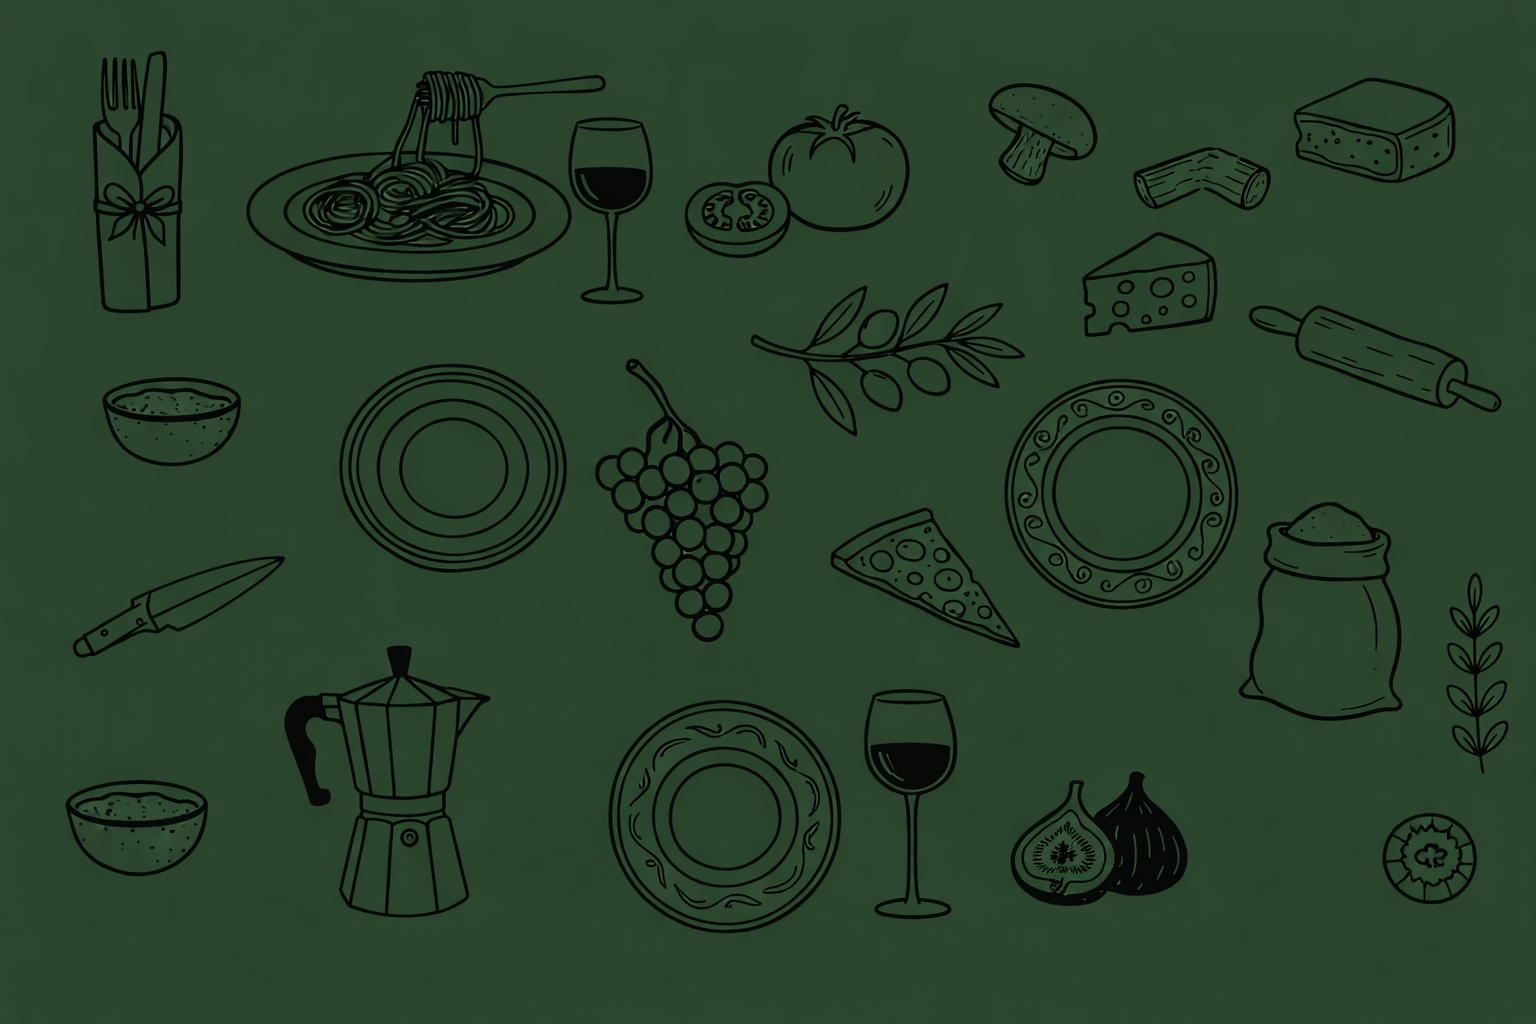
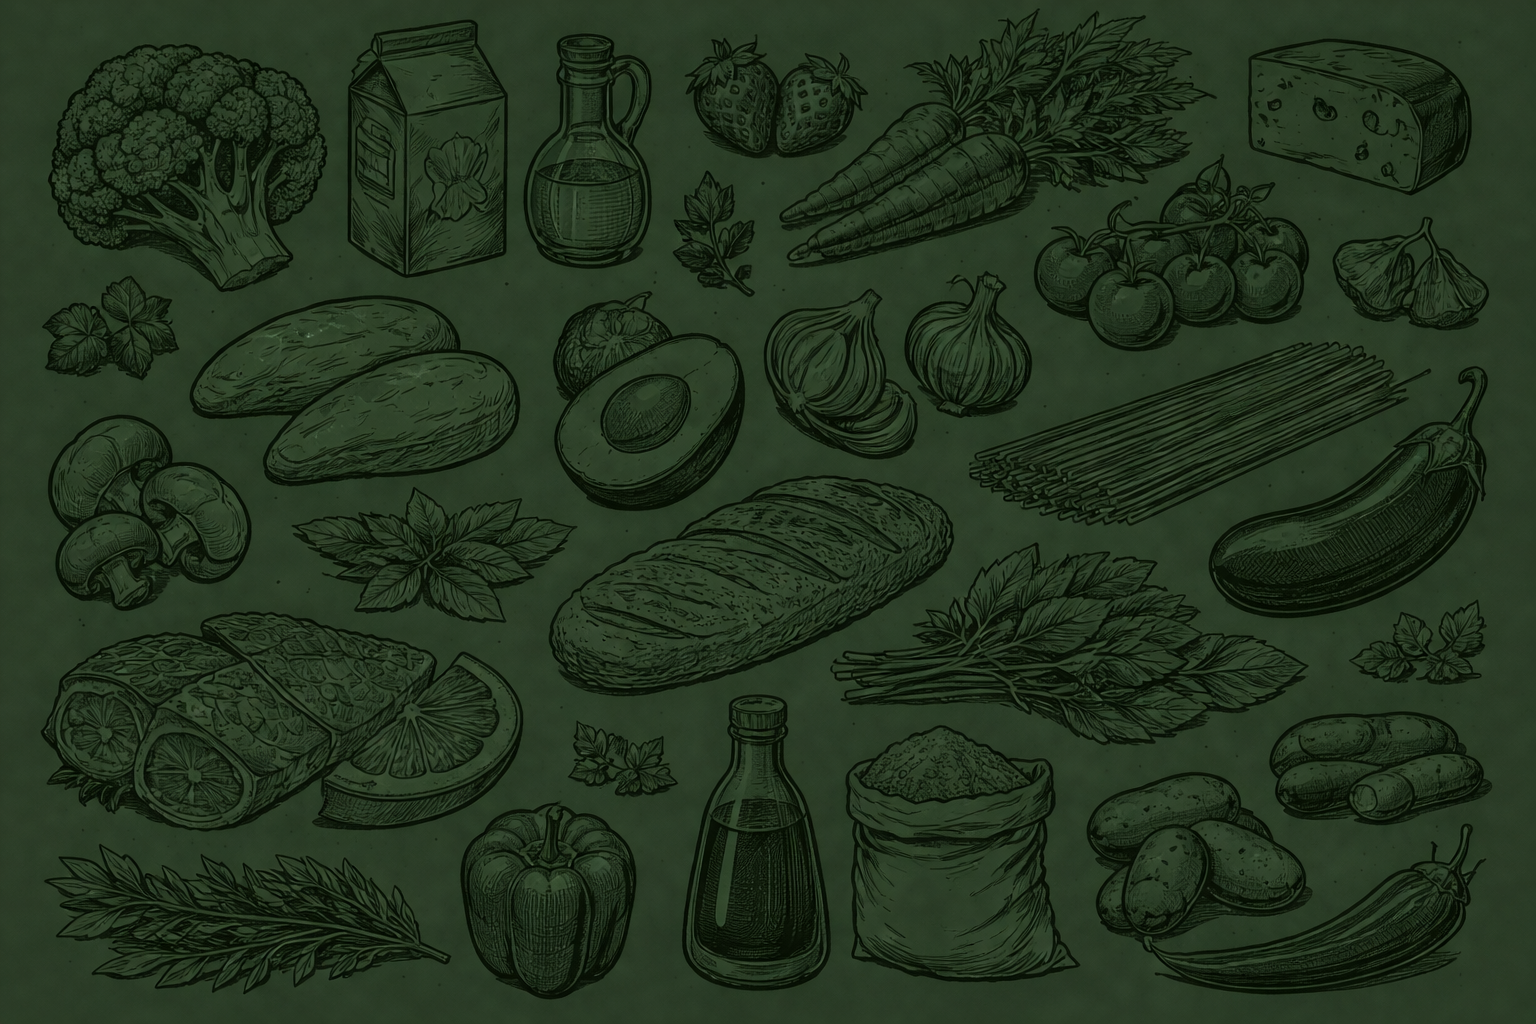
finished the homepage cards, identified some bugs

diff --git a/core/templates/core/homepage.html b/core/templates/core/homepage.html
@@ -16,19 +16,29 @@ Foodganizer Home
 
 <div class="container-home-head">
     <h2>Ready to get ahead of your meal planning?</h2>
-    <p>Start your journey below:</p>
+    <p>The Foodganizer lets you access an extendable database of highly customizable ingredients and recipes.</p>
+    <ul style="text-align: left;">
+      <li>Generate a grocery list from your favourite recipes</li>
+      <li>Keep a digital fridge and get meal suggestions from the ingredients you already have!</li>
+      <li>Calculate your TDEE and BMR and track your meals and nutrients.</li>
+    </ul>
+
 </div>
 
 
 <div class="cards">
 
-  <a href="{% url 'generate_grocery_list' %}" class="card">
+<img src="/static/images/title_line.svg" alt="" style="width: 400px; height: auto;">
+
+<!-- GROCERY-->
+
+    <a href="{% url 'generate_grocery_list' %}" class="card">
     <div class="card-inner">
       <div class="card-img">
-        <img src="/static/images/generate_grocery.jpg" alt="">
+        <img src="/static/images/generate_gorcery.png" alt="">
       </div>
       <div class="card-content">
-        <p>Generate a grocery list from the recipes you like! If you have items in your fridge, the Foodganizer will only add what you don't have. </p>
+        <p>Save yourself the cognitive load and hours wondering in the store, generate a grocery list from your favourite recipes!  </p>
       </div>
       <div class="card-wave">
         <p class="title">Generate Grocery List</p>
@@ -50,6 +60,10 @@ Foodganizer Home
     </div>
   </a>
 
+<img src="/static/images/title_line.svg" alt="" style="width: 400px; height: auto;">
+
+<!-- MEALS-->
+
   <a href="{% url 'meal_suggestions' %}" class="card">
     <div class="card-inner">
       <div class="card-img">
@@ -67,10 +81,10 @@ Foodganizer Home
   <a href="{% url 'meal_list' %}" class="card">
     <div class="card-inner">
       <div class="card-img">
-        <img src="/static/images/ingredients_card.png" alt="">
+        <img src="/static/images/meals_list.png" alt="">
       </div>
       <div class="card-content">
-        <p>Your saved meals</p>
+        <p>A list of your generated meal suggestions. Just open it and start cooking!</p>
       </div>
       <div class="card-wave">
         <p class="title">Your Meals</p>
@@ -78,19 +92,41 @@ Foodganizer Home
     </div>
   </a>
 
-  <a href="{% url 'manage_recipes' %}" class="card">
+
+<img src="/static/images/title_line.svg" alt="" style="width: 400px; height: auto;">
+<!-- TOOLS -->
+
+  <a href="{% url 'calorie-tracker' %}" class="card">
     <div class="card-inner">
       <div class="card-img">
-        <img src="/static/images/recipes_card.png" alt="">
+        <img src="/static/images/kcal_tracker.png" alt="">
       </div>
       <div class="card-content">
-        <p>Check out our recipes and add your own! </p>
+        <p>Track your meals amd nutrients in the calendar! See detailed information about your progress.</p>
       </div>
       <div class="card-wave">
-        <p class="title">Manage Recipes</p>
+        <p class="title">Calorie Tracker Calendar</p>
       </div>
     </div>
   </a>
+
+  <a href="{% url 'biometrics' %}" class="card">
+  <div class="card-inner">
+    <div class="card-img">
+      <img src="/static/images/bmi_calc.png" alt="">
+    </div>
+    <div class="card-content">
+      <p>BMR (Basal Metabolic Rate) and TDEE (Total Daily Energy Expenditure) calculator here. Set your data and start tracking! </p>
+    </div>
+    <div class="card-wave">
+      <p class="title">BMI + TDEE Calculator</p>
+    </div>
+  </div>
+</a>
+
+
+<img src="/static/images/title_line.svg" alt="" style="width: 400px; height: auto;">
+<!-- DATA -->
 
   <a href="{% url 'manage_fridge' %}" class="card">
     <div class="card-inner">
@@ -106,13 +142,14 @@ Foodganizer Home
     </div>
   </a>
 
+
   <a href="{% url 'manage_ingredients' %}" class="card">
     <div class="card-inner">
       <div class="card-img">
         <img src="/static/images/ingredients_card.png" alt="">
       </div>
       <div class="card-content">
-        <p>Browse ingredients, or introduce new flavours to the Foodganizer!</p>
+        <p>Browse ingredients, or introduce the Foodganizer to new flavours!</p>
       </div>
       <div class="card-wave">
         <p class="title">Manage Ingredients</p>
@@ -120,21 +157,29 @@ Foodganizer Home
     </div>
   </a>
 
-  <a href="{% url 'calorie-tracker' %}" class="card">
+    <a href="{% url 'manage_recipes' %}" class="card">
     <div class="card-inner">
       <div class="card-img">
-        <img src="/static/images/ingredients_card.png" alt="">
+        <img src="/static/images/recipes_card.png" alt="">
       </div>
       <div class="card-content">
-        <p>Coming soon</p>
+        <p>Check out our recipes and add your own! </p>
       </div>
       <div class="card-wave">
-        <p class="title">Calorie Tracker</p>
+        <p class="title">Manage Recipes</p>
       </div>
     </div>
   </a>
 
 </div>
 
+<div style="text-align: center; margin: 2rem 0;">
+    <div class="tooltip" style="display: inline-block;">
+        <button onclick="window.scrollTo({top: 0, behavior: 'smooth'})" title="Back to top" class="btn-invisible" style="display: inline-flex;">
+            <img src="{% static 'images/top_arr.svg' %}" width="30" height="30" alt="Back to top">
+        </button>
+        <span class="tooltip-text">Back to top</span>
+    </div>
+</div>
 
 {% endblock %}

diff --git a/static/css/homepage_styles.css b/static/css/homepage_styles.css
@@ -150,3 +150,26 @@
     font-size: 13px;
   }
 }
+
+
+
+#back-to-top {
+    position: fixed;
+    bottom: 2rem;
+    left: 50%;
+    transform: translateX(-50%);
+    width: 40px;
+    height: 40px;
+    border-radius: 50%;
+    background: var(--bg-tertiary);
+    border: 1px solid var(--border);
+    cursor: pointer;
+    align-items: center;
+    justify-content: center;
+    z-index: 999;
+    padding: 0;
+}
+
+#back-to-top:hover {
+    background: var(--accent);
+}

diff --git a/docs/to_do.md b/docs/to_do.md
@@ -3,6 +3,12 @@ Welcome to my to-do list! Feel free to give me siggestions :)
 # TO-DO
 ## PRIORITY 1 FIXES
     - fix 100 converts to 99.6 
+    - cust 403
+    - del ingr perms
+    - http://127.0.0.1:8000/ingredients/13/ details fridge testche
+    - calendar num val
+    - meal suggest not subtracting fridge for authu
+    - generate grocery list not adding if already exists
 
 ## PRIORITY 2 FIXES
     - Generation History needs to show what was added too
